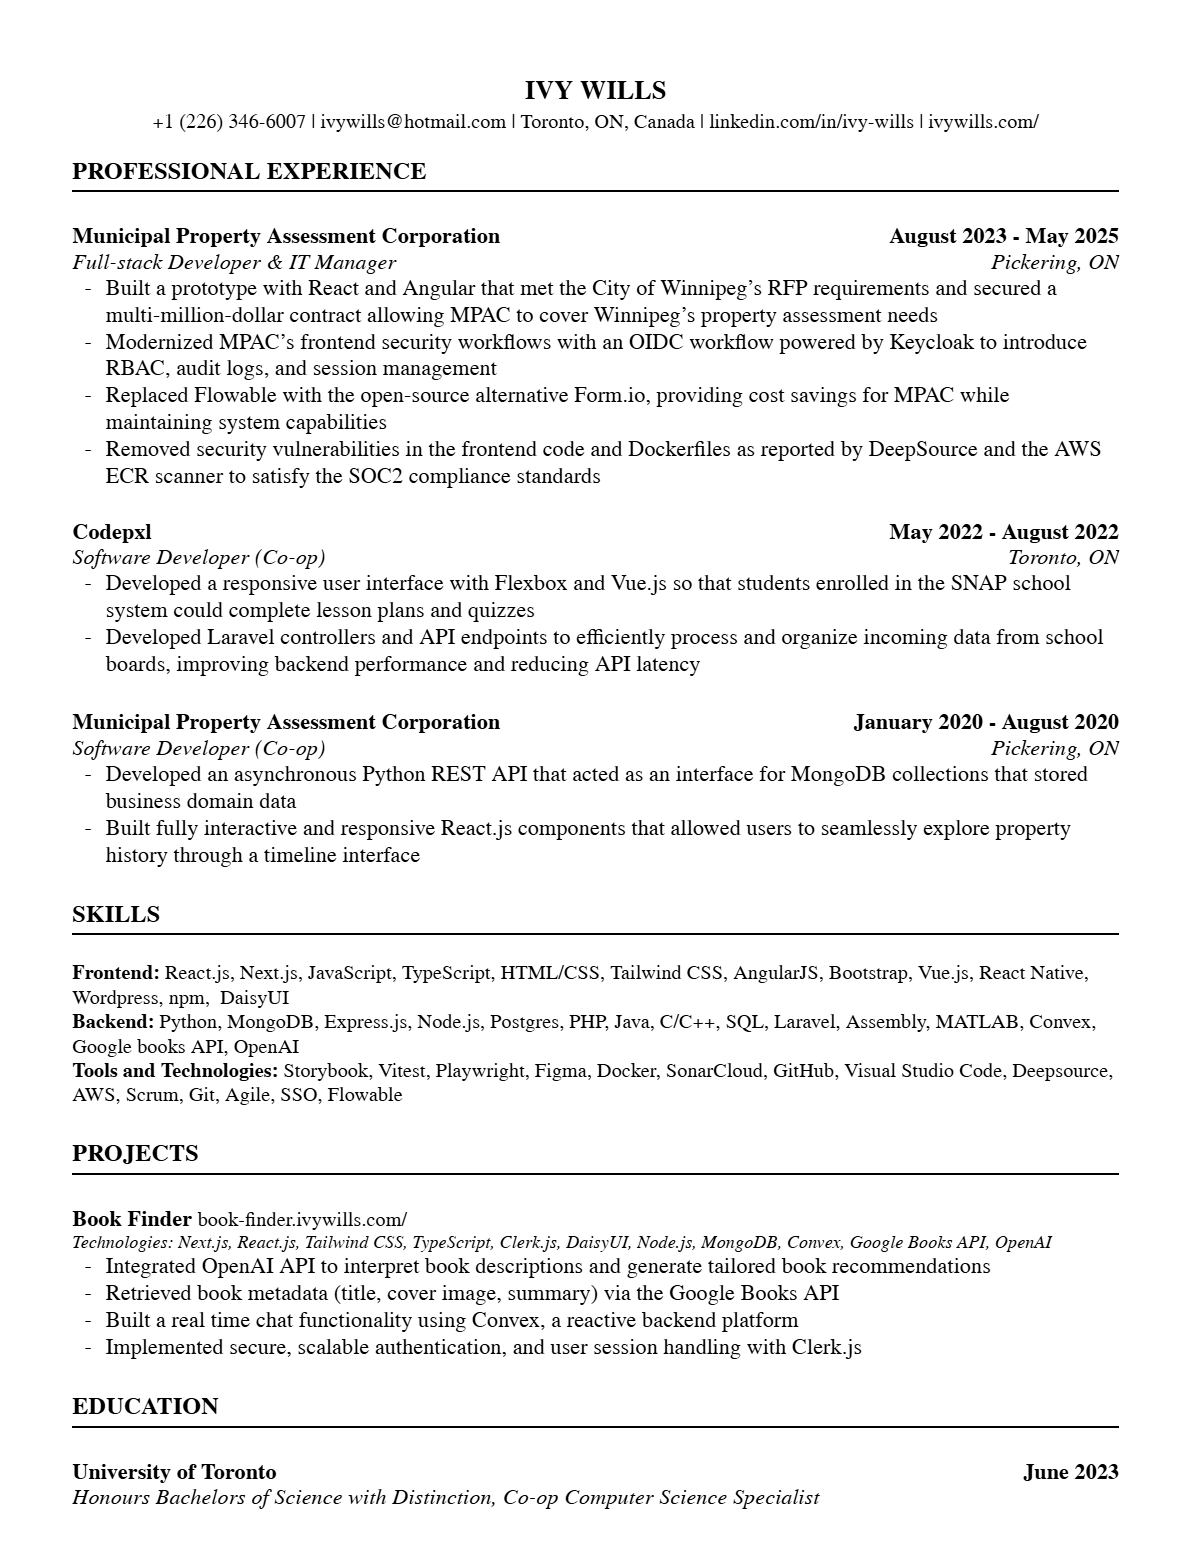
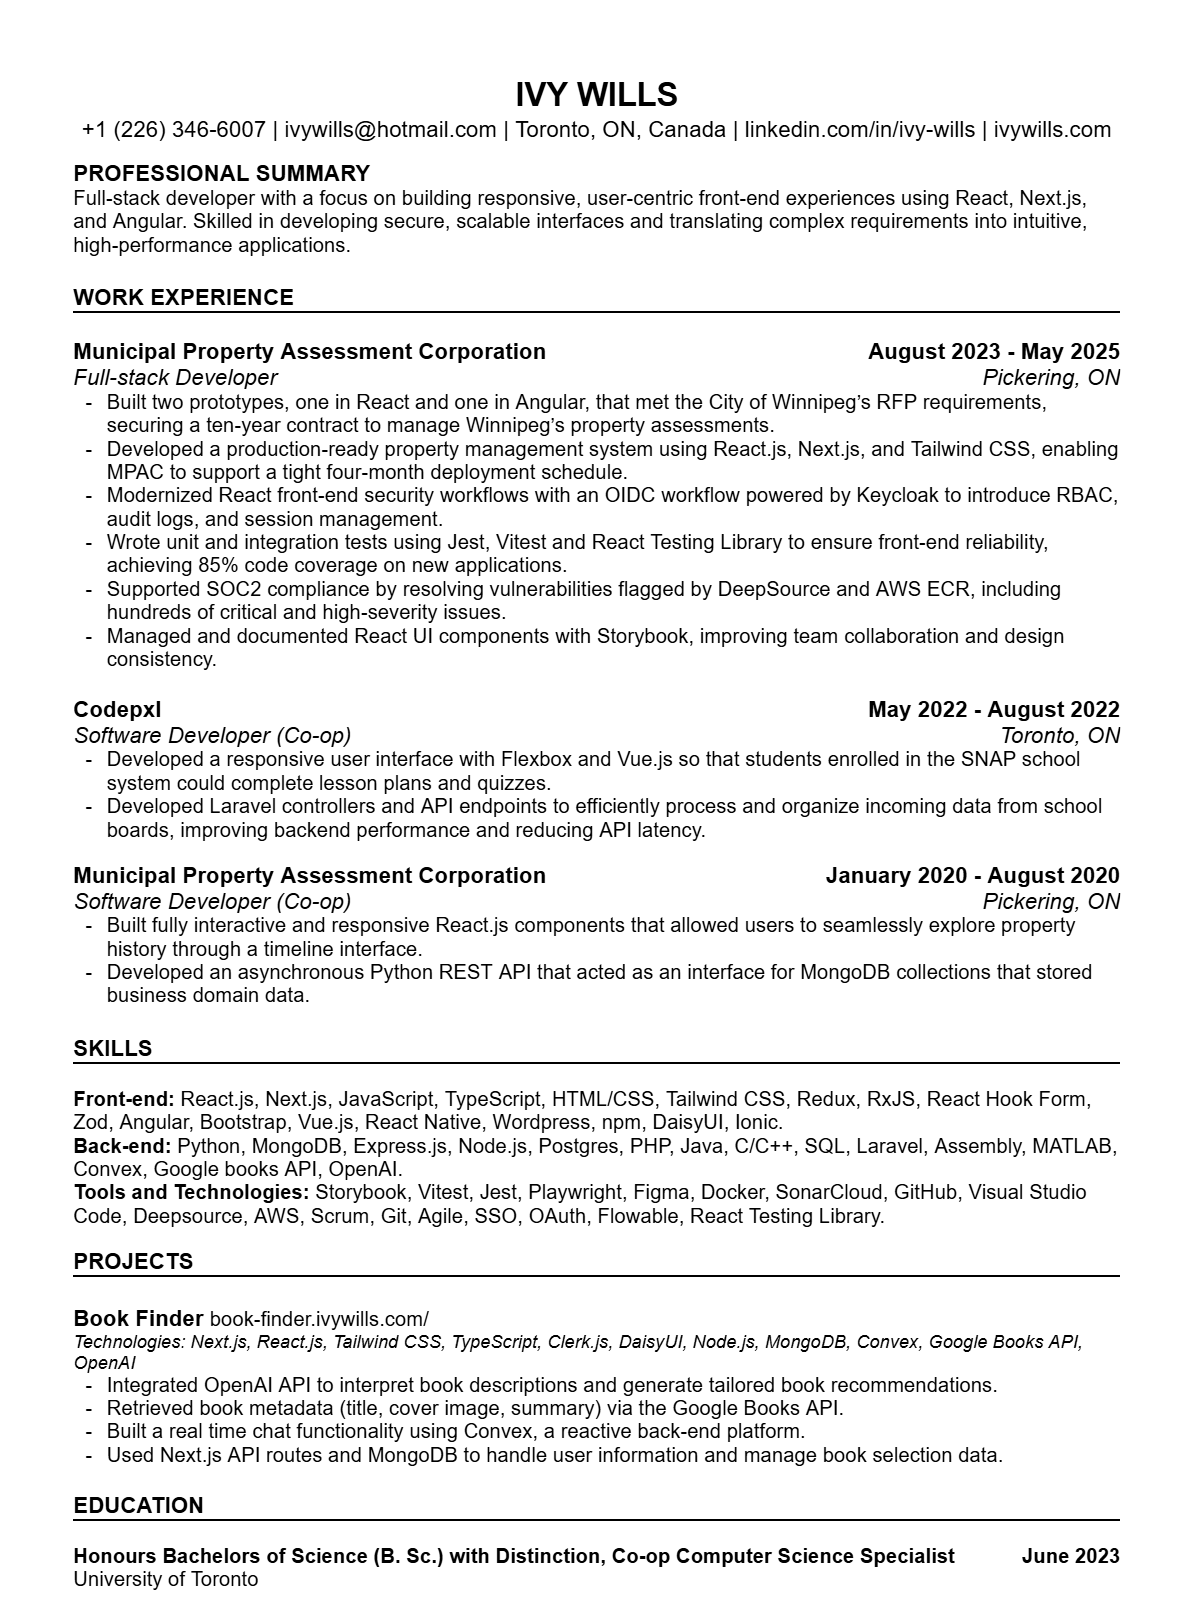
fix: update job details

Changed region(s): [[0.062, 0.0311, 0.9606, 0.9955], [0.8367, 0.9332, 0.9296, 0.9644]]

diff --git a/src/work-experience.js b/src/work-experience.js
@@ -54,7 +54,7 @@ export default function WorkExperience() {
         <WorkExperienceBox
           title="Fullstack Developer and IT Systems Manager"
           subTitle="Municipal Property Assessment Corporation"
-          description="Here, I developed React and Angular components to meet Winnipeg's RFP requirements. This helped secure a five-year, multi-million dollar contract. I also modernized MPAC's frontend security workflows by implementing an OIDC solution with Keycloak. This introduced RBAC, audit logs, and session management for improved security. I replaced Flowable with the open-source Form.io, saving $400K annually. The new system maintained all necessary form management capabilities. Additionally, I identified and fixed security vulnerabilities in frontend code and Dockerfiles, ensuring SOC2 compliance."
+          description="Here, I developed React and Angular components to meet Winnipeg's RFP requirements. This helped secure a ten-year, multi-million dollar contract. I also modernized MPAC's frontend security workflows by implementing an OIDC solution with Keycloak. This introduced RBAC, audit logs, and session management for improved security. I replaced Flowable with the open-source Form.io, saving $400K annually. The new system maintained all necessary form management capabilities. Additionally, I identified and fixed security vulnerabilities in frontend code and Dockerfiles, ensuring SOC2 compliance."
         />
         <WorkExperienceBox
           title="Software Developer"
